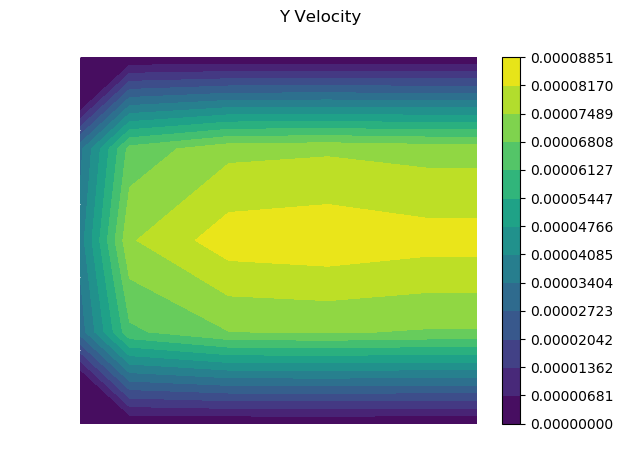
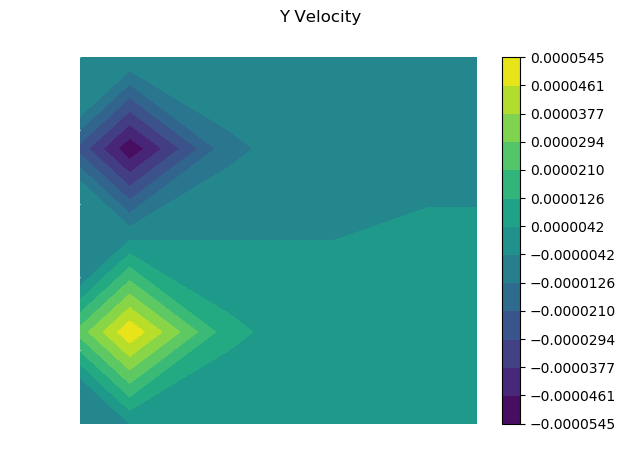
Example Code Works

diff --git a/Solver.py b/Solver.py
@@ -105,6 +105,7 @@ class Solution:
     def solve(self):
 
         max_diff = 1.
+        it_count = 0
 
         while max_diff > self.convergence:
 
@@ -132,6 +133,10 @@ class Solution:
             self.v_view.update(self.v_s)
             self.p_view.update(self.p_s)
             self.u_view.update(self.u_s)
+
+            it_count += 1
+
+        print it_count
 
     def x_mom(self):
 
@@ -289,37 +294,61 @@ class Solution:
                 i_id = i - 1
                 j_id = j - 1
 
+                # EAST
                 n_e_id = n_id + 1
                 area_e = self.y[j_id+1] - self.y[j_id]
                 de = area_e / self.x_a_mat[n_e_id][n_e_id]
                 a_e = self.rho * de * area_e
-                self.p_a_mat[n_id][n_e_id] = -a_e
-                self.p_d[n_id][n_e_id] = de
-                self.b_mat[n_id] -= self.rho * area_e * self.u_n_s[i_id+1][j_id]
 
+                if i == self.ni-1:
+                    a_e *= self.au
+                elif i < self.ni-2:
+                    self.p_a_mat[n_id][n_e_id] = -a_e
+                    self.p_d[n_id][n_e_id] = de
+
+                self.b_mat[n_id] -= self.rho * area_e * self.u_n_s[i_id + 1][j_id]
+
+                # WEST
                 n_w_id = n_id - 1
                 area_w = self.y[j_id+1] - self.y[j_id]
                 dw = area_w / self.x_a_mat[n_id][n_id]
                 a_w = self.rho * dw * area_w
-                self.p_a_mat[n_id][n_w_id] = -a_w
-                self.p_d[n_id][n_w_id] = dw
+
+                if i == 2:
+                    a_w *= self.au
+                else:
+                    self.p_a_mat[n_id][n_w_id] = -a_w
+                    self.p_d[n_id][n_w_id] = dw
+
                 self.b_mat[n_id] += self.rho * area_w * self.u_n_s[i_id][j_id]
 
+                # SOUTH
                 n_s_id = n_id - self.ni
                 area_s = self.x[i_id+1] - self.x[i_id]
                 ds = area_s / self.y_a_mat[n_id][n_id]
                 a_s = self.rho * ds * area_s
-                self.p_a_mat[n_id][n_s_id] = -a_s
-                self.p_d[n_id][n_s_id] = ds
+
+                if j == 2:
+                    a_s *= self.av
+                else:
+                    self.p_a_mat[n_id][n_s_id] = -a_s
+                    self.p_d[n_id][n_s_id] = ds
+
                 self.b_mat[n_id] += self.rho * area_s * self.v_n_s[i_id][j_id]
 
+                # NORTH
                 n_n_id = n_id + self.ni
                 area_n = self.x[i_id+1] - self.x[i_id]
                 dn = area_n / self.y_a_mat[n_n_id][n_n_id]
                 a_n = self.rho * dn * area_n
-                self.p_a_mat[n_id][n_n_id] = -a_n
-                self.p_d[n_id][n_n_id] = dn
-                self.b_mat[n_id] -= self.rho * area_n * self.v_n_s[i_id][j_id+1]
+
+                if j == self.nj - 1:
+                    a_n *= self.av
+                else:
+                    self.p_a_mat[n_id][n_n_id] = -a_n
+                    self.p_d[n_id][n_n_id] = dn
+
+                self.b_mat[n_id] -= self.rho * area_n * self.v_n_s[i_id][j_id + 1]
 
                 a_p = a_e + a_w + a_n + a_s
 

diff --git a/Preprocessing.py b/Preprocessing.py
@@ -80,6 +80,19 @@ def initial_con(x_num, y_num, u=0, v=0, p=0):
     u_vel = np.zeros((x_num, y_num), dtype=float) + u_start
     v_vel = np.zeros((x_num, y_num), dtype=float) + v_start
 
+    v_vel[:, 0] = np.zeros((v_vel.shape[1]))
+    v_vel[:, 1] = np.zeros((v_vel.shape[1]))
+    v_vel[:, -1] = np.zeros((v_vel.shape[1]))
+
+    u_vel[:, 0] = np.zeros((u_vel.shape[1]))
+    u_vel[:, -1] = np.zeros((u_vel.shape[1]))
+    u_vel[0] = np.zeros((u_vel.shape[0]))
+
+    pressure[:, 0] = np.zeros((pressure.shape[1]))
+    pressure[:, -1] = np.zeros((pressure.shape[1]))
+    pressure[0] = np.zeros((pressure.shape[0]))
+    pressure[-1] = np.zeros((pressure.shape[0]))
+
     return u_vel, v_vel, pressure
 
 

diff --git a/Controller.py b/Controller.py
@@ -27,7 +27,7 @@ def project_solution(height, length, gs_x, gs_y, u_in):
     x_v_viewer = Viewer.FlowContours(u, u_grid[0], u_grid[1], [0, 0, length, height], 'X Velocity')
     y_v_viewer = Viewer.FlowContours(v, v_grid[0], v_grid[1], [0, 0, length, height], 'Y Velocity')
 
-    cc = .1
+    cc = .000001
     rho = 1000.
     mu = .001
 
